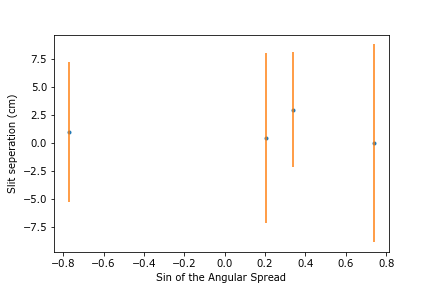
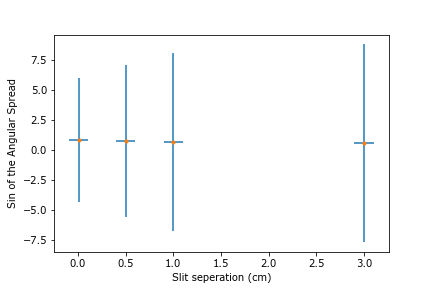
changed plot

diff --git a/Wave Phenomena/WavePhenomena.py b/Wave Phenomena/WavePhenomena.py
@@ -27,17 +27,21 @@ f = 20 #Hz
 ###################
 slitSeperation = np.array([3.0,1.0,0.50,0.01])
 angularSpread = np.array([34.21,41.72,50.47,58.86])
-uAngularSpread = 15/100 * angularSpread
+uAngularSpread = 0.15 * angularSpread
+##################
+angularSpread = angularSpread * pi / 180
+uAngularSpread = 10
 #################
 a = slitSeperation
-uA = uAngularSpread
+uA = 0.1 #cm
 th = angularSpread
+uSinth = sin(th)*uAngularSpread * (1/tan(th))
 ################
 pl.cla()
-pl.plot(sin(th),a, ".")
-pl.errorbar(sin(th), a, yerr=uA, fmt=" ")
-pl.xlabel("Sin of the Angular Spread")
-pl.ylabel("Slit seperation (cm)")
+pl.errorbar(a, sin(th), xerr=uA, yerr=uSinth, fmt=" ")
+pl.plot(a,sin(th), ".")
+pl.ylabel("Sin of the Angular Spread")
+pl.xlabel("Slit seperation (cm)")
 pl.savefig("Experiment 4 -- Slit sepration over Sine of Angular Spread");
 
 
